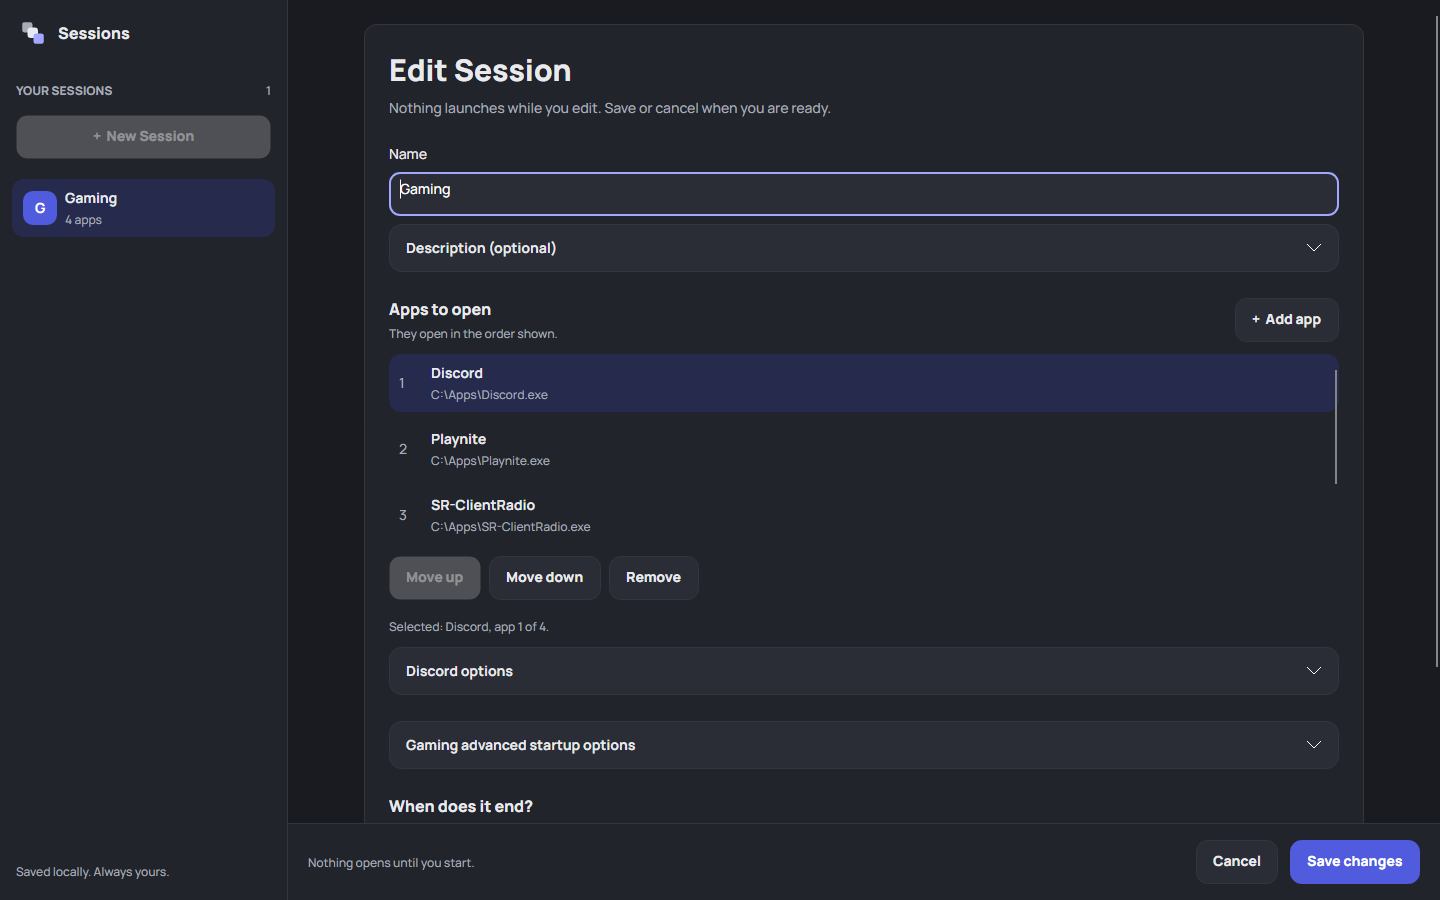
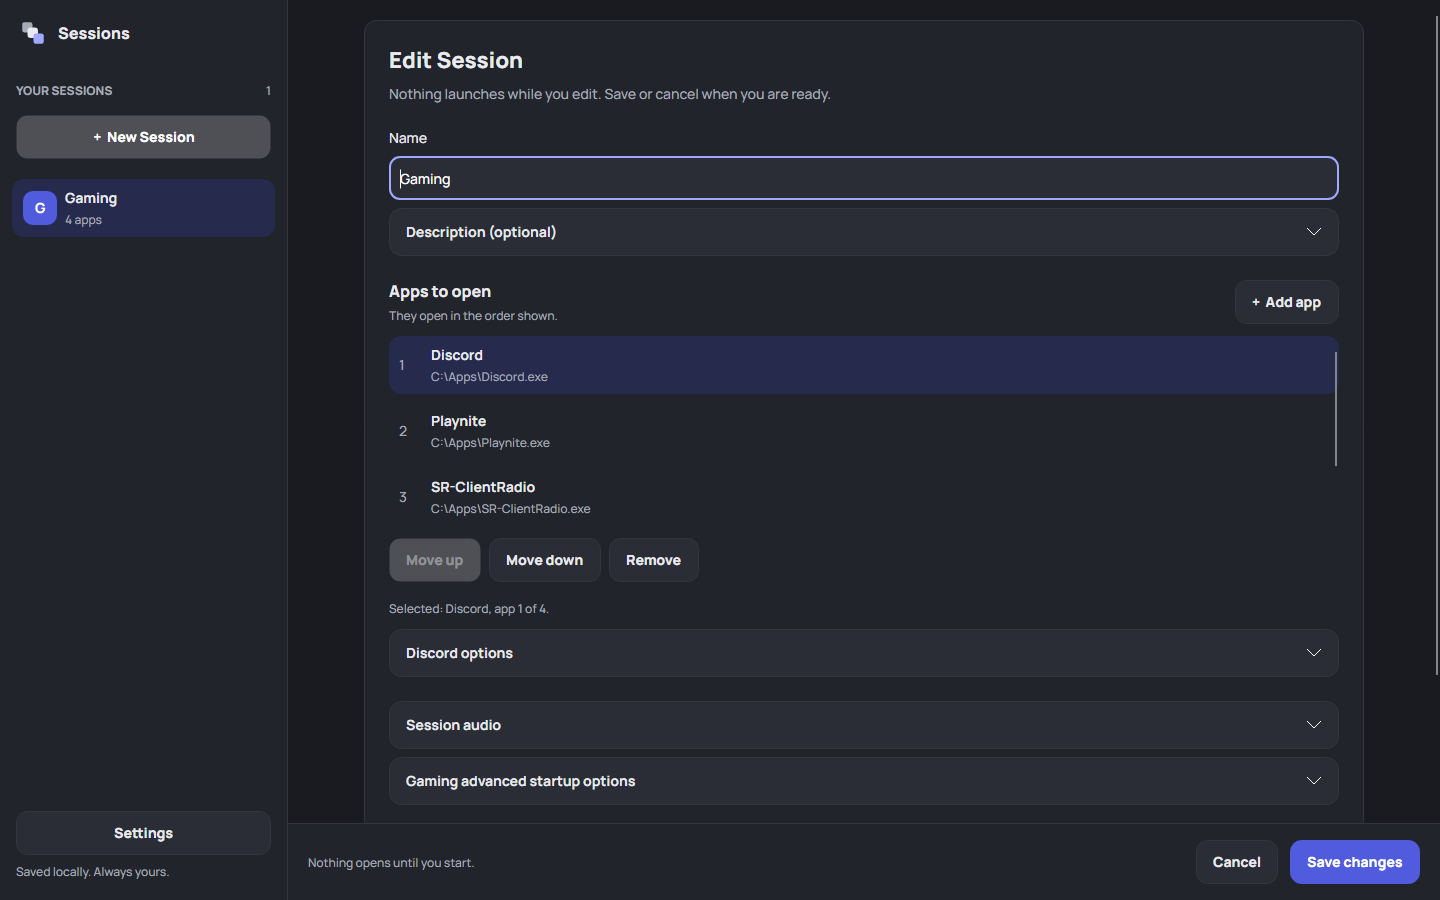
Release 0.6.0 with optional apps, Duplicate Session and About
Bump the shared version to 0.6.0, add release notes, update README, plugin and
screenshot documentation for library format v6, and refresh public screenshots
with enabled Close actions. Record the branded installer request as SESS-049.

diff --git a/tests/Sessions.App.Tests/BrandingInteractionTests.cs b/tests/Sessions.App.Tests/BrandingInteractionTests.cs
@@ -35,7 +35,8 @@ public sealed class BrandingInteractionTests
         var definition = new SessionDefinition(Guid.NewGuid(), "Gaming", "Your simulator, radio and cockpit utilities, ready together.", apps);
         var presence = new Presence();
         var runner = new SessionRunner(new Host());
-        using var model = new MainViewModel(new Store(definition), presence, new ManualLauncher(), runner);
+        // A closer keeps public screenshots showing enabled Close actions; rendering never uses it.
+        using var model = new MainViewModel(new Store(definition), presence, new ManualLauncher(), runner, appCloser: new UnusedCloser());
         var window = new MainWindow { DataContext = model, Width = width, Height = height, RequestedThemeVariant = theme };
         window.Show();
         try
@@ -175,6 +176,10 @@ public sealed class BrandingInteractionTests
     private sealed class ManualLauncher : IIndividualAppLauncher
     {
         public Task<AppLaunchResult> LaunchAsync(StartProcessAction app, CancellationToken cancellationToken = default) => throw new InvalidOperationException("Rendering must not launch apps.");
+    }
+    private sealed class UnusedCloser : IIndividualAppCloser
+    {
+        public Task<IPreparedAppClose> PrepareAsync(StartProcessAction app, CancellationToken cancellationToken = default) => throw new InvalidOperationException("Rendering must not close apps.");
     }
     private sealed class Host : ISessionProcessHost
     {

diff --git a/README.md b/README.md
@@ -35,7 +35,7 @@
 
 <p align="center"><em>Your apps, their order, and what's running—all in one place.</em></p>
 
-**Sessions 0.5.0 adds Steam plugin support and a Close action beside running apps.**
+**Sessions 0.6.0 adds optional apps, Duplicate Session and an About page, and reopens where you left off.**
 [Download the Windows alpha](#downloads) to try it with your own apps.
 
 | Make it yours | Start together | End with clarity |
@@ -70,7 +70,7 @@ A main app is optional.
 
 1. **Create a Session.** Give it a name you'll recognise in the sidebar.
 2. **Add your apps.** Search or scroll through Start menu apps, choose from running apps, or browse for an executable. Select several at once.
-3. **Make it yours.** Arrange the opening order, choose when the Session ends, and optionally select sound output and microphone devices. Arguments, working folders, and administrator launch settings are available when needed.
+3. **Make it yours.** Arrange the opening order, choose when the Session ends, and optionally select sound output and microphone devices. Arguments, working folders, administrator launch and optional-app settings are available when needed.
 4. **Start the Session.** Apps open using your chosen startup mode (in order by default). Matching apps that are already running stay open without becoming part of its cleanup.
 5. **End when you're ready.** Review which apps will stop, save your work, and confirm.
 
@@ -91,6 +91,10 @@ Later device changes are kept; missing devices and failed restoration show recov
 guidance. Apps with their own explicit audio selection may keep it. This changes
 Windows defaults, so other apps following those defaults are affected too.
 
+**Let optional apps be optional.** Turn on **Continue if this app doesn't start** for
+utilities you can do without. If one can't open or doesn't finish starting, the Session
+carries on and tells you why; anything it opened still closes when you end.
+
 **Choose your appearance.** Open **Settings** from the sidebar or empty-library
 header. Preview System / Light / Dark, interface sizes from 100–150% and separate
 text sizes from 100–125%, then apply. Interface enlargement fits the available
@@ -102,10 +106,12 @@ restores the defaults while keeping your saved Sessions.
 - **Find apps by name.** Start menu discovery keeps supported shortcuts' arguments, working folders, and administrator settings.
 - **Recognize your apps.** App cards show executable icons, with a name initial when an icon is unavailable.
 - **See what's running.** A green Running button brings an app's window forward. Outside an active Session, click Not running to open an individual app.
-- **Keep your place.** Search and switch between app sources without losing checked selections.
+- **Keep your place.** Search and switch between app sources without losing checked selections. Sessions reopens with its last window size and position and the Session you were viewing.
+- **Start from a copy.** Duplicate Session opens a new draft with the same apps and settings.
 - **Stay oriented.** An active Session remains visible while you browse your other saved setups.
 - **Make it comfortable.** Settings offers System / Light / Dark, interface and separate text sizing, a preview, and reset. Preferences stay local; drafts and active runs are preserved.
 - **Keep your edits.** Closing with a changed Session draft offers Keep editing, Discard and Save. Failed saves retain your edits. Deleting a Session requires confirmation and does not uninstall its apps.
+- **Know what you're running.** Settings → About Sessions shows the version, your data folder and the licenses and notices included with the app.
 
 ## What happens when a Session ends?
 
@@ -120,7 +126,7 @@ End Session requests a normal close and preserves apps that stay open, including
 If an app cannot be stopped or safely tracked, Sessions explains the problem and offers recovery where available. Closing Sessions during an active run lets you end the run or leave its apps open. Apps opened individually remain independent of a later Session's cleanup.
 
 [Browse the full screenshot gallery](docs/SCREENSHOTS.md). Images show the actual
-0.2.2 UI with real executable icons, isolated sample data and simulated process status.
+0.6.0 UI with real executable icons, isolated sample data and simulated process status.
 
 ## Downloads
 
@@ -128,23 +134,24 @@ If an app cannot be stopped or safely tracked, Sessions explains the problem and
 Features and saved-data formats may change, and some apps require manual handling.
 Feedback and bug reports are welcome.
 
-Download the Sessions 0.5.0
-[Windows x64 MSI](https://github.com/datstma/sessions/releases/download/v0.5.0/Sessions-0.5.0-win-x64.msi)
-from [GitHub Releases](https://github.com/datstma/sessions/releases/tag/v0.5.0).
+Download the Sessions 0.6.0
+[Windows x64 MSI](https://github.com/datstma/sessions/releases/download/v0.6.0/Sessions-0.6.0-win-x64.msi)
+from [GitHub Releases](https://github.com/datstma/sessions/releases/tag/v0.6.0).
 The installer includes .NET and installs for your Windows user, with a Start menu
 shortcut. Installer and application binaries are unsigned.
 
-[What's new in 0.5.0](docs/release-notes/0.5.0.md): bundled Steam discovery, launching,
-running status and optional closing, plus individual app Close controls.
+[What's new in 0.6.0](docs/release-notes/0.6.0.md): optional apps, Duplicate Session,
+window and selection memory, About with in-app licenses, library upgrade backups and a
+roomier layout.
 
 Close Sessions before installing, updating, or uninstalling. Updates and uninstall
 preserve your saved Sessions and appearance preferences. To update, download and run a newer MSI; there is no
 automatic updater. The release page includes checksums, source, and validation limits.
 
-**Library compatibility:** saving in 0.5.0 uses v5, which 0.4.0 and earlier cannot
-open. Loading an older library alone does not rewrite it. Keep a copy of
-`%LOCALAPPDATA%\Sessions\sessions.json` before saving if you need to return to an
-older release.
+**Library compatibility:** saving in 0.6.0 uses v6, which 0.5.0 and earlier cannot
+open. Loading an older library alone does not rewrite it. On the first save, Sessions
+keeps the previous file beside your library as `sessions.v<old version>-backup-<date>-<time>.json`
+and shows where it is; restore it as `sessions.json` to return to an older release.
 
 See [Building and releasing Sessions](docs/RELEASING.md) for versioning and packaging.
 
@@ -161,7 +168,7 @@ See [Building and releasing Sessions](docs/RELEASING.md) for versioning and pack
 
 ## Build from source
 
-**Included in 0.5.0:** bundled plugin support, starting with Steam. Open
+**Plugins:** since 0.5.0, Sessions bundles plugin support, starting with Steam. Open
 Settings → Plugins, then use Add app → Plugins to select installed Steam games.
 Steam apps show running status and offer opt-in closing in each app’s options;
 already-running apps and the shared Steam client stay open during Session cleanup.
@@ -169,7 +176,7 @@ Use **Close…** beside a running app to close it individually after confirmatio
 including apps opened outside Sessions. [Plugin guide and limits](docs/PLUGINS.md).
 Third-party plugin loading, Hue and Home Assistant remain future work.
 
-Use Windows with **.NET SDK 10.0.400**, pinned in [global.json](global.json).
+Use Windows with **.NET SDK 10.0.401**, pinned in [global.json](global.json).
 Rider is optional; the command line is enough.
 
 Clone the repository and run these commands:
@@ -204,7 +211,7 @@ Your saved library is readable JSON at:
 %LOCALAPPDATA%\Sessions\sessions.json
 ```
 
-It stores Session definitions and launch settings. Live process ownership is kept only for the current run. Built-in import/export and cloud synchronisation are not implemented.
+It stores Session definitions and launch settings. Live process ownership is kept only for the current run. Built-in import/export and cloud synchronisation are not implemented. Settings → About Sessions → **Open data folder** opens this location.
 
 ## Project direction
 

diff --git a/docs/release-notes/0.6.0.md b/docs/release-notes/0.6.0.md
@@ -1,0 +1,79 @@
+# Sessions 0.6.0 Alpha
+
+Mark apps optional, duplicate Sessions, and pick up where you left off.
+
+Sessions is in Alpha: its core workflow is available for everyday testing, while
+features and saved-data formats may change. Feedback and bug reports are welcome.
+
+## Changes
+
+- **Optional apps.** In an app's options, turn on **Continue if this app doesn't
+  start**. If that app can't open (for example a missing file, a Windows error,
+  cancelled administrator approval or an unavailable plugin) or doesn't meet its
+  startup condition, the Session carries on without it and tells you why. Anything
+  it did open still closes when the Session ends. If the app that ends the Session is
+  skipped, you end the Session yourself. Detail cards label optional apps.
+- **Duplicate Session.** Copy a Session's apps and settings into a new draft named
+  "<name> copy". Nothing is saved until you create it, and the copy appears right after
+  the original, fully independent of it.
+- **Pick up where you left off.** Sessions reopens with its last window size, position
+  and maximized state, fitted to your current displays, and selects the Session you
+  were viewing.
+- **About Sessions** at the end of Settings shows the version and project stage, links
+  to release notes, issues and source code, your data folder, and a **Licenses and
+  notices** window that shows the Sessions license and bundled third-party notices.
+- **Library backups on upgrade.** The first time you save a library created by an
+  earlier version, Sessions keeps a copy of the previous file and shows where it is.
+- **A roomier layout.** Session details and the editor use space more efficiently, so
+  typical Sessions fit without scrolling. Text is centered in buttons and fields,
+  running and background-only apps share one status style, and expandable sections no
+  longer show a separate highlight on their arrow.
+- **Fixed:** in app options, the explanations under **Run as administrator** and
+  **Force quit if this app stays open** had been swapped since 0.2.2.
+
+## Compatibility
+
+**Saving a library in 0.6.0 writes format v6. Sessions 0.5.0 and earlier cannot read
+v6.** Opening an older library does not change it. The first save afterwards (an edit,
+new Session, duplicate or deletion) keeps the previous file beside your library as
+`sessions.v<old version>-backup-<date>-<time>.json` and shows its location. To return
+to an earlier release, close Sessions and restore that copy as `sessions.json`; changes
+made after upgrading are not in the copy.
+
+Window placement is stored separately in `%LOCALAPPDATA%\Sessions\window.json` and is
+ignored if unreadable. Appearance and plugin preferences are unchanged.
+
+## Validation and Alpha limits
+
+Local installer validation passes clean solution/MSI builds, self-contained Windows
+x64 publishing, dependency-notice collection and WiX validation, plus 150 Core and 266
+App tests (31 opt-in native skips). New automated coverage includes optional-app
+startup (skips, tracked apps missing their condition, main-app fallback, concurrent and
+untracked launches, unavailable plugins and cancellation), loading every library format
+from v1 to v6 and the upgrade backup, duplication identities, window placement across
+changed, removed and mixed-scaling displays, About actions and the licenses viewer, and
+text centering and default-window fit in both themes.
+
+The maintainer tried each feature in a source build before release. Real-app
+confirmation does not yet cover optional apps with cancelled administrator approval,
+readiness timeouts or skipped Steam apps, window restoration across multiple monitors
+or display-scaling changes, or the full third-party notices list in an installed build.
+
+Real Steam save prompts and cleanup edge cases, native Narrator, physical-monitor/DPI
+changes, ordinary nonadministrator installation and installed real-app/UAC behavior
+remain validation limits. Installer lifecycle checks are not repeated for this release,
+following the maintainer's existing request. MSI and app binaries are unsigned.
+
+## Upgrading
+
+Close Sessions and run `Sessions-0.6.0-win-x64.msi`. The per-user Windows x64 installer
+includes .NET and preserves saved Sessions, appearance and plugin preferences.
+There is no automatic updater.
+
+## Source and checksums
+
+`Sessions-0.6.0-source.zip` contains matching GPL-3.0-only Sessions source and build
+scripts. Dependency notices are installed in `licenses` and can be read from
+Settings → About Sessions → Licenses and notices. `WiX-7.0.0-source.zip` supplies the
+embedded installer utility action's matching MS-RL source. `SHA256SUMS.txt` covers the
+MSI and both source ZIPs.

diff --git a/docs/DEVELOPMENT_NOTES.md b/docs/DEVELOPMENT_NOTES.md
@@ -2,7 +2,38 @@
 
 Project continuity and dated findings. [PRODUCT.md](PRODUCT.md) remains authoritative for product behaviour and scope; [ARCHITECTURE.md](ARCHITECTURE.md) remains authoritative for technical decisions. Track actionable follow-up in [BACKLOG.md](BACKLOG.md), rather than leaving tasks buried in these notes.
 
-## Resume next session — layout density and alignment 2026-09-15
+## Resume next session — 0.6.0 release preparation 2026-09-15
+
+After SESS-040 (7c1f0b6) the user asked to prepare 0.6.0. Shared version is now 0.6.0
+(minor bump for features). Added docs/release-notes/0.6.0.md (optional apps, Duplicate,
+window/selection memory, About and licenses viewer, upgrade backups, layout, swapped
+option explanations fix; v6 compatibility and backup restore guidance). README,
+PLUGINS and SCREENSHOTS now describe 0.6.0 and v6; README SDK text is 10.0.401.
+
+Public screenshots were regenerated with Update-PublicScreenshots.ps1 using icons read
+from the user's installed Discord (%LOCALAPPDATA%\Discord\app-1.0.9256), Playnite
+(C:\Games\Playnite), SR-ClientRadio (Program Files\DCS-SimpleRadio-Standalone\Client)
+and Tobii Game Hub (%LOCALAPPDATA%\TobiiGameHub\current); nothing was launched. The
+branding fixture now supplies an unused app closer so Close buttons render enabled.
+With the user's permission, only Rider's two Avalonia.Designer.HostApp processes were
+stopped to free bin/Release.
+
+Local Build-Installer.ps1 passed: clean Release solution/MSI builds with zero
+warnings/errors, 150 Core and 266 App tests (31 native skips), self-contained publish,
+notices and WiX validation. artifacts/releases/0.6.0/Sessions-0.6.0-win-x64.msi SHA-256
+ba1e364aab0ebf61676a4b40a3f2fe36840be09ec1a93e4962073ebb01e9f3c7 matches its sidecar;
+MSI ProductVersion 0.6.0; app 0.6.0.0 with informational 0.6.0+7c1f0b6 (pre-release
+HEAD; the published MSI comes from the tagged CI build); ReleaseStage Alpha and
+RepositoryUrl embedded; payload has LICENSE, THIRD-PARTY-NOTICES.txt, dependencies.json
+and 20 notice texts. Links (110) and diff checks pass. Log in the session scratchpad.
+
+Not committed, tagged or published. Remaining: commit/push, tag v0.6.0, run the workflow,
+verify exact assets, add CI evidence to the notes/RELEASING and publish, all on explicit
+request. The v6 format-upgrade release check needs an installed build (Sandbox checks
+are waived); disclose or perform it. Open user question: branded installer UI with a
+Launch Sessions option (SESS-049); agent recommended 0.6.1 rather than delaying 0.6.0.
+
+## Previous checkpoint — layout density and alignment 2026-09-15
 
 The user reviewed 0.5.0 Alpha with screenshots and reported three UI problems:
 opening the app always needs scrolling, field/button text is not consistently

diff --git a/docs/BACKLOG.md b/docs/BACKLOG.md
@@ -1327,3 +1327,25 @@ setup, everyday use, data location, upgrades and known limitations.
 
 Done when: the matrix is recorded with outcomes, failures link to backlog IDs, and the
 guide matches the Beta build.
+
+## SESS-049 — Branded installer with Launch Sessions
+
+**P2 · Proposed · Awaiting the user's timing decision · 2026-09-15**
+Source: during 0.6.0 release preparation the user asked whether the installer can be
+branded with Sessions icons and typical installation information, and offer "Launch
+Sessions" after installation. Code inspection: the MSI has no authored UI (only Windows
+Installer's basic progress), already registers the product icon and an about link, and
+installs per-user to a fixed folder.
+
+Agent proposal: WiX standard dialogs (Welcome, progress, Finished) with a Sessions
+banner and side image generated from branding assets (light only, as installer dialogs
+do not follow dark mode); no folder or license-acceptance steps (fixed per-user location;
+GPL-3.0 needs no acceptance); a default-checked Launch Sessions option on the Finished
+page that starts the installed app as the user and is absent from silent installs and
+uninstall; fuller Installed apps details (publisher, help and update links, comments).
+The existing running-app refusal must remain visible in the new UI. Adds the WiX UI
+extension (review notices) and generated bitmaps to the branding pipeline.
+
+Done when: interactive install, upgrade from the previous release, launch option,
+refusal while running and uninstall are exercised on the built MSI (a Sandbox or manual
+run), ICE validation passes, and RELEASING and the release notes describe the change.

diff --git a/docs/SCREENSHOTS.md b/docs/SCREENSHOTS.md
@@ -1,10 +1,10 @@
 # Sessions in pictures
 
-These screenshots show **Sessions 0.2.2**, including executable icons in the app
-list and the updated safer-closing confirmation. You can
-[download the Windows preview](https://github.com/datstma/sessions/releases/tag/v0.4.0).
-The screenshots show the system-following themes. Current releases also offer
-appearance preferences in Settings.
+These screenshots show **Sessions 0.6.0**, including executable icons in the app
+list, matching status chips and the safer-closing confirmation. You can
+[download the Windows alpha](https://github.com/datstma/sessions/releases/tag/v0.6.0).
+The screenshots show the system-following themes; Settings also offers appearance
+preferences.
 
 ## Your apps, ready together
 
@@ -25,8 +25,8 @@ advanced startup settings when you need more control.
 ## Know what will close
 
 Before ending, review the apps Sessions will close and those that will stay open.
-In 0.2.2, apps that remain open after a normal close are preserved so you can handle
-save prompts. Force quit is an explicit choice unless enabled in an app's options.
+Apps that remain open after a normal close are preserved so you can handle save
+prompts. Force quit is an explicit choice unless enabled in an app's options.
 
 ![End confirmation separates Playnite, SR-ClientRadio and TobiiGameHub under Asked to close from Discord under Stays open, explaining that apps waiting for you remain open; Cancel has focus.](images/end-dark.png)
 

diff --git a/docs/PLUGINS.md b/docs/PLUGINS.md
@@ -74,9 +74,10 @@ and individual launches; no restart is needed. Existing runs retain their captur
 configuration. Missing/incompatible plugin references are preserved, with launch
 errors instead of executable fallback.
 
-**Saving any library in 0.5.0 writes format v5.** It reads v1–v5 without
-rewriting on load; published 0.4.0 and earlier cannot read v5. Keep a copy of your
-library before saving if you need to return to 0.4.0 or earlier.
+Plugin apps require library format v5 or later; published 0.4.0 and earlier cannot
+read them. **Saving in 0.6.0 writes format v6**, which 0.5.0 and earlier cannot read.
+Sessions reads v1–v6 without rewriting on load and keeps a copy of an older library
+on its first save (see the [release notes](release-notes/0.6.0.md#compatibility)).
 Steam entries store their name and stable app ID, not an installation path/account.
 
 ## Bundled extension boundary
